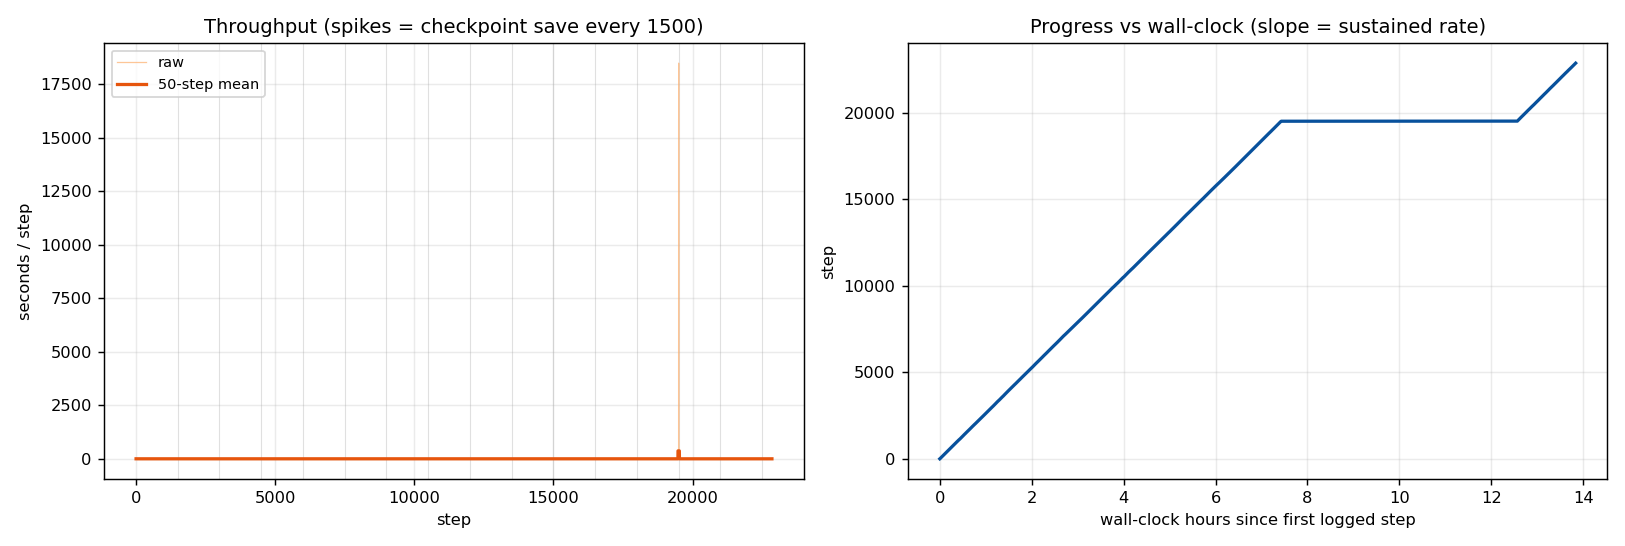
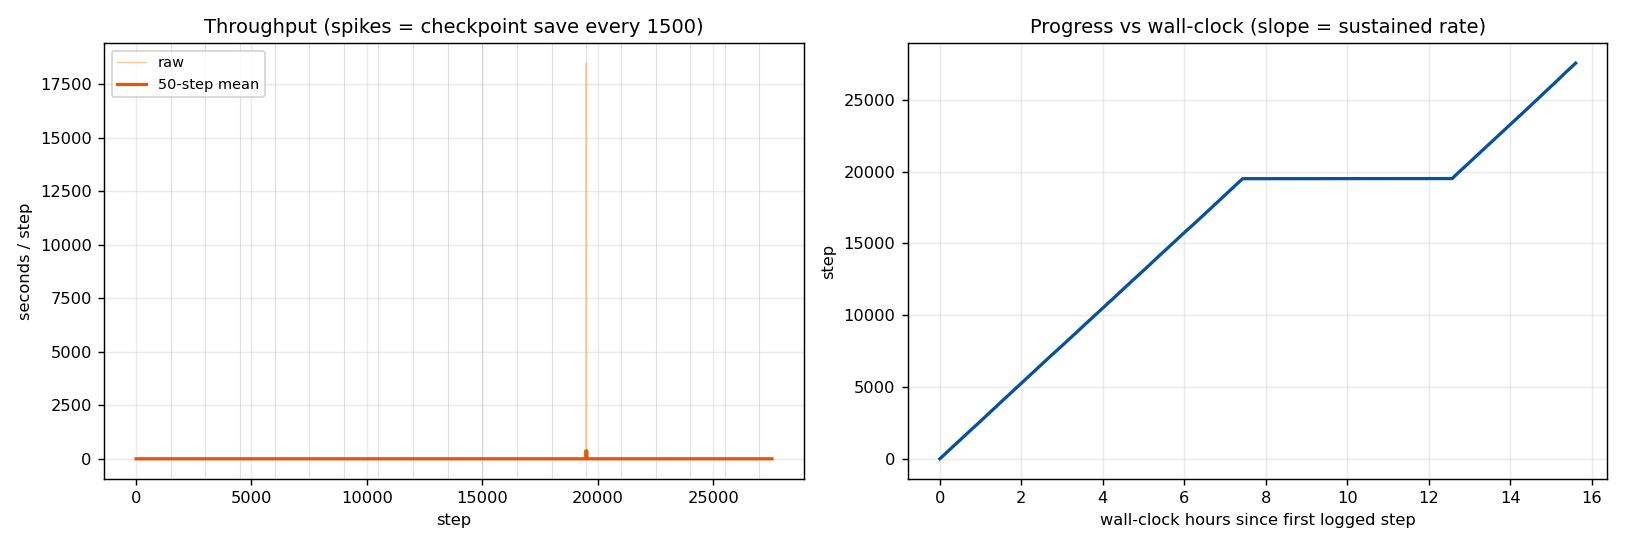
TRAINING_ANALYSIS: quran_ahh_r8_rank32 snapshot @ 27,543/28,467 (96.8%)
- regenerate plots + ANALYSIS.md at step 27,543
- loss plateau holds (~8k steps flat, ar_ce ~3.19-3.22); checkpoints ..._27000

diff --git a/TRAINING_ANALYSIS/quran_ahh_r8_rank32/ANALYSIS.md b/TRAINING_ANALYSIS/quran_ahh_r8_rank32/ANALYSIS.md
@@ -1,9 +1,9 @@
 # Training analysis — `quran_ahh_r8` **revised** (AR+NAR, rank 32, no KL)
 
-**LIVE SNAPSHOT** — captured **2026-10-06 ~02:27 UTC (05:27 Bahrain)** at **step 22,855 / 28,467
-(80.3%)**. The run is still training (pid 37073; resumed `2026-10-06T01:09:51` from ckpt 19,500
-after the 2026-10-05 pause); this is *not* a final analysis. Charts produced by the parametrized
-`TRAINING_ANALYSIS/generate_plots.py`:
+**LIVE SNAPSHOT** — captured **2026-10-06 ~04:13 UTC (07:13 Bahrain)** at **step 27,543 / 28,467
+(96.8%)**. The run is still training (pid 37073; resumed `2026-10-06T01:09:51` from ckpt 19,500
+after the 2026-10-05 pause); final save imminent — this is *not* the final analysis. Charts produced
+by the parametrized `TRAINING_ANALYSIS/generate_plots.py`:
 
 ```bash
 cd /content/maqamrock-yue2-lora-finetuning
@@ -35,13 +35,13 @@ python TRAINING_ANALYSIS/generate_plots.py \
 | Dataset | `/content/quran_ahh_dataset/train` — **9,489 pairs** (AHH filtered, 3 reciters, single caption/clip, 50/50 simple/uthmani stratified); `steps: 28467` = **3 epochs** |
 | GPU | Colab **L4** (23,034 MiB) |
 | Caching | banked `_latent_cache.tar` — launch pass **< 1 s** (cache HIT, no re-encode) |
-| Steps done | **22,855 / 28,467 (80.3%)** at snapshot |
-| Step time | **median 1.238 s** (p10 1.207 / p90 1.763; max 4.719) → ~**0.75 steps/s** (0.75 recent) |
+| Steps done | **27,543 / 28,467 (96.8%)** at snapshot |
+| Step time | **median 1.231 s** (p10 1.206 / p90 1.632; max 5.754) → ~**0.71 steps/s** (0.71 recent) |
 | Save cadence | every **1500** steps (~34 min) |
 | Samples | **none** — grey verticals are checkpoint saves |
-| Checkpoints | `_000001500 … _000022500` (**15**) + `optimizer.pt` (step 22500) — local + GCS (verified); next save = **24000** |
-| GPU (resumed window) | mem p50 **8,430** / peak **8,730** MiB of 23,034; util p50 **48 %**, p90 100 %; temp p50 76 / max 80 °C; power p50 64 / max 75 W (limit 72) |
-| ETA | **~125 min (2.1 h)** at the recent rate → completion ~**04:32 UTC / 07:32 Bahrain** |
+| Checkpoints | `_000001500 … _000027000` (**18**) + `optimizer.pt` (step 27000) — local + GCS (verified); next = final un-suffixed save at **28,467** |
+| GPU (resumed window) | mem p50 **8,730** / peak **9,152** MiB of 23,034; util p50 **49 %**, p90 100 %; temp p50 76 / max 80 °C; power p50 65 / max 76 W (limit 72) |
+| ETA | **~22 min** at the recent rate → completion ~**04:35 UTC / 07:35 Bahrain** |
 | Health | clean — no tracebacks/OOM; VRAM flat; steady ~34 min save cadence |
 
 ## Charts
@@ -78,17 +78,22 @@ python TRAINING_ANALYSIS/generate_plots.py \
 | 19001–20000 | **3.8272** | **3.1780** | 0.6492 |
 | 20001–21000 | 3.8479 | 3.2006 | 0.6474 |
 | 21001–22000 | 3.8640 | 3.2143 | 0.6498 |
-| 22001–22855 | 3.8637 | 3.2210 | 0.6427 |
+| 22001–23000 | 3.8610 | 3.2200 | 0.6411 |
+| 23001–24000 | 3.8423 | 3.1944 | 0.6478 |
+| 24001–25000 | 3.8682 | 3.2188 | 0.6494 |
+| 25001–26000 | 3.8555 | 3.2103 | 0.6452 |
+| 26001–27000 | 3.8516 | 3.2111 | 0.6406 |
+| 27001–27543 | 3.8365 | 3.2057 | 0.6308 |
 
-First-50 vs last-50 means: `loss/loss` **5.8409 → 3.8592** (−1.982), `loss/ar_ce`
-**5.0275 → 3.2093** (−1.818), `additional_model_loss` identical. `loss/loss` minimum
-**3.0433 @ step 22800**.
+First-50 vs last-50 means: `loss/loss` **5.8409 → 3.8020** (−2.039), `loss/ar_ce`
+**5.0275 → 3.1868** (−1.841), `additional_model_loss` identical. `loss/loss` minimum
+**3.0168 @ step 27262**.
 
 Per-checkpoint 500-step windows (`loss/loss` mean) — the "is later training better?" read:
 
-| from step | 15,000 | 16,500 | 18,000 | 19,500 | 21,000 | 22,500 |
-|---|---|---|---|---|---|---|
-| `loss/loss` (next 500) | 4.0024 | 3.9907 | 4.0014 | **3.8073** | 3.8653 | 3.8620 |
+| from step | 15,000 | 16,500 | 18,000 | 19,500 | 21,000 | 22,500 | 24,000 | 25,500 | 27,000 |
+|---|---|---|---|---|---|---|---|---|---|
+| `loss/loss` (next 500) | 4.0024 | 3.9907 | 4.0014 | **3.8073** | 3.8653 | 3.8593 | 3.8783 | 3.8523 | 3.8391 |
 
 ## Observations / flags
 
@@ -96,14 +101,14 @@ Per-checkpoint 500-step windows (`loss/loss` mean) — the "is later training be
    label, not a second loss). The NAR/flow term is visible only as the residual
    `loss/loss − ar_ce` ≈ **0.65–0.68** (0.776 → 0.674 over the run). Both experts train, but the
    log gives no clean separate read on the NAR.
-2. **`loss/ar_ce` has largely flattened.** It drifted to ~3.32 by 17k, dropped to **3.1780**
-   (19001–20000), and has since held at **~3.20–3.22** — the descent has plateaued over the last
-   ~4k steps (a small step-down at the 19,500 resume, then flat).
+2. **`loss/ar_ce` has plateaued.** It drifted to ~3.32 by 17k, dropped to **3.1780**
+   (19001–20000), and has held at **~3.19–3.22** ever since — ~8k steps flat (a small step-down at
+   the 19,500 resume, then no further descent). A single late min (2.435 @ 27262) is noise.
 3. **Later checkpoints improved, then plateaued.** Next-500 means: 4.0024 @15k → **3.8073 @19.5k**
-   → 3.8620 @22.5k. The step-down coincides with the 19.5k resume; since then it is flat — whether
-   the extra steps help is a listening question, not a loss one.
+   → 3.8555 @25.5k → 3.8391 @27k. The step-down coincides with the 19.5k resume; since then it is
+   flat — whether the extra steps help is a listening question, not a loss one.
 4. **`loss/loss` is AR-dominated** — not a quality metric; the held-out free-run is the signal.
-5. **The L4 is not the bottleneck.** util p50 **48 %** (p90 100 %), ~8.7 GB of 23 GB — data/CPU-bound;
+5. **The L4 is not the bottleneck.** util p50 **49 %** (p90 100 %), ~8.7 GB of 23 GB — data/CPU-bound;
    power saturates at the 72 W limit.
 6. **First 50 are warmup-inflated** (~5.84) and the per-step series is noisy — trust the bins.
    Occasional multi-second spikes (max 5.80 s/step) align with the 1500-step saves.
@@ -121,9 +126,9 @@ Adapters banked: `…/quran_ahh_r8_rank32/convert/{c4500,c7500,c10500,c16500}/`.
 
 ## Checkpoints (on disk + GCS)
 
-`/content/ai-toolkit/output/quran_ahh_r8/`: `quran_ahh_r8_000001500 … _000022500` (15 ×
-117,500,848 B ≈ 112 MiB) + `optimizer.pt` (step 22500) + `loss_log.db`. GCS mirror verified
-(15 checkpoints + optimizer + a `README.md` marker).
+`/content/ai-toolkit/output/quran_ahh_r8/`: `quran_ahh_r8_000001500 … _000027000` (18 ×
+117,500,848 B ≈ 112 MiB) + `optimizer.pt` (step 27000) + `loss_log.db`. GCS mirror verified.
+The final un-suffixed `quran_ahh_r8.safetensors` + `optimizer.pt` land at **28,467**.
 
 ## Caveats
 
@@ -136,6 +141,7 @@ Adapters banked: `…/quran_ahh_r8_rank32/convert/{c4500,c7500,c10500,c16500}/`.
 
 ## Next steps
 
-- Continue to **28,467** (~07:32 Bahrain at the current rate, if the VM stays up).
-- **c10500 vs c16500 T4 probe** (round 2) — `c16500` is now banked; the immediate test.
+- Finish to **28,467** (~07:35 Bahrain; ~22 min out at the last check).
+- **c10500 vs c16500 T4 probe** (round 2); consider a late arm (`c27000`/final) — the plateau makes
+  "later = better" a listening question.
 - Human blind gate (`ab-blind-eval`) before any merge.
